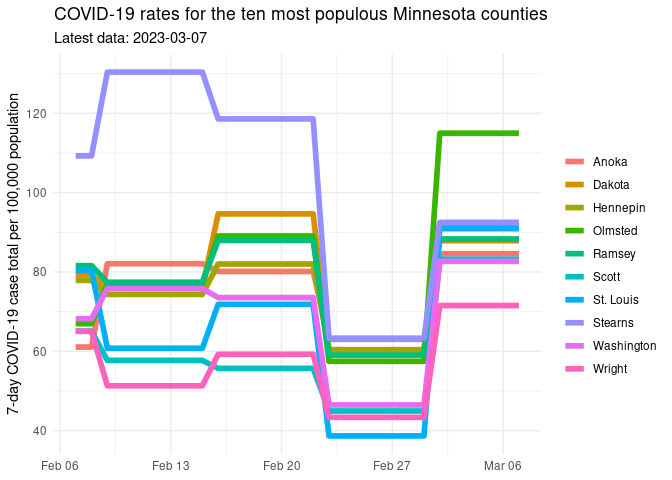
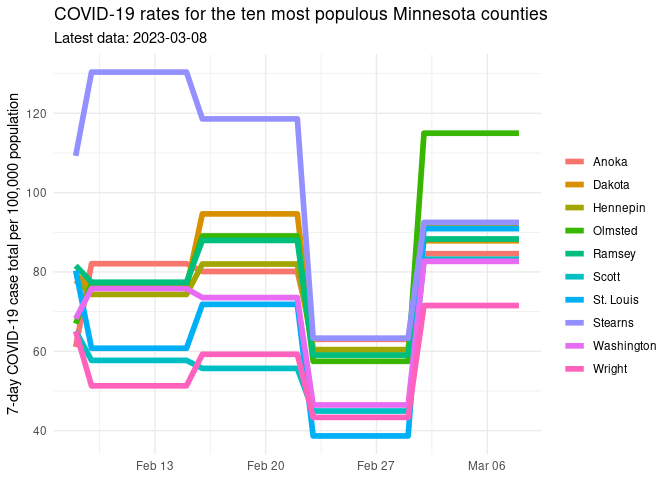
Updated report

diff --git a/README.md b/README.md
@@ -1,7 +1,7 @@
 Minnesota COVID Report
 ================
 
-Report last run: 2023-03-08 22:32:23
+Report last run: 2023-03-09 22:34:30
 
 ## Introduction
 
@@ -106,25 +106,25 @@ rate_data %>%
   knitr::kable()
 ```
 
-| county             | state        |     pop | covid_rate |
-|:-------------------|:-------------|--------:|-----------:|
-| Loving             | Texas        |     169 |       2367 |
-| Clark              | Kansas       |    1994 |        802 |
-| Rawlins            | Kansas       |    2530 |        593 |
-| Rolette            | North Dakota |   14176 |        578 |
-| Union              | Kentucky     |   14381 |        570 |
-| Traverse           | Minnesota    |    3259 |        552 |
-| Miami-Dade         | Florida      | 2716940 |        508 |
-| Bethel Census Area | Alaska       |   18386 |        506 |
-| Jackson            | Florida      |   46414 |        489 |
-| Gadsden            | Florida      |   45660 |        466 |
-| Hamilton           | Nebraska     |    9324 |        461 |
-| Concho             | Texas        |    2726 |        440 |
-| Menominee          | Wisconsin    |    4556 |        439 |
-| Oglala Lakota      | South Dakota |   14177 |        423 |
-| Petroleum          | Montana      |     487 |        411 |
-| Sargent            | North Dakota |    3898 |        410 |
-| Lemhi              | Idaho        |    8027 |        399 |
-| Pawnee             | Kansas       |    6414 |        390 |
-| Todd               | South Dakota |   10177 |        383 |
-| Suwannee           | Florida      |   44417 |        374 |
+| county                   | state        |     pop | covid_rate |
+|:-------------------------|:-------------|--------:|-----------:|
+| Mineral                  | Colorado     |     769 |       1170 |
+| Hodgeman                 | Kansas       |    1794 |        669 |
+| Lamb                     | Texas        |   12893 |        667 |
+| Rolette                  | North Dakota |   14176 |        578 |
+| Union                    | Kentucky     |   14381 |        570 |
+| Traverse                 | Minnesota    |    3259 |        552 |
+| Miami-Dade               | Florida      | 2716940 |        508 |
+| Bethel Census Area       | Alaska       |   18386 |        506 |
+| Jackson                  | Florida      |   46414 |        489 |
+| Gadsden                  | Florida      |   45660 |        466 |
+| Hamilton                 | Nebraska     |    9324 |        461 |
+| Petroleum                | Montana      |     487 |        411 |
+| Sargent                  | North Dakota |    3898 |        410 |
+| Clark                    | Kansas       |    1994 |        401 |
+| Gove                     | Kansas       |    2636 |        379 |
+| Suwannee                 | Florida      |   44417 |        374 |
+| Northwest Arctic Borough | Alaska       |    7621 |        367 |
+| Tazewell                 | Virginia     |   40595 |        362 |
+| Campbell                 | Tennessee    |   39842 |        356 |
+| Leon                     | Florida      |  293582 |        356 |
